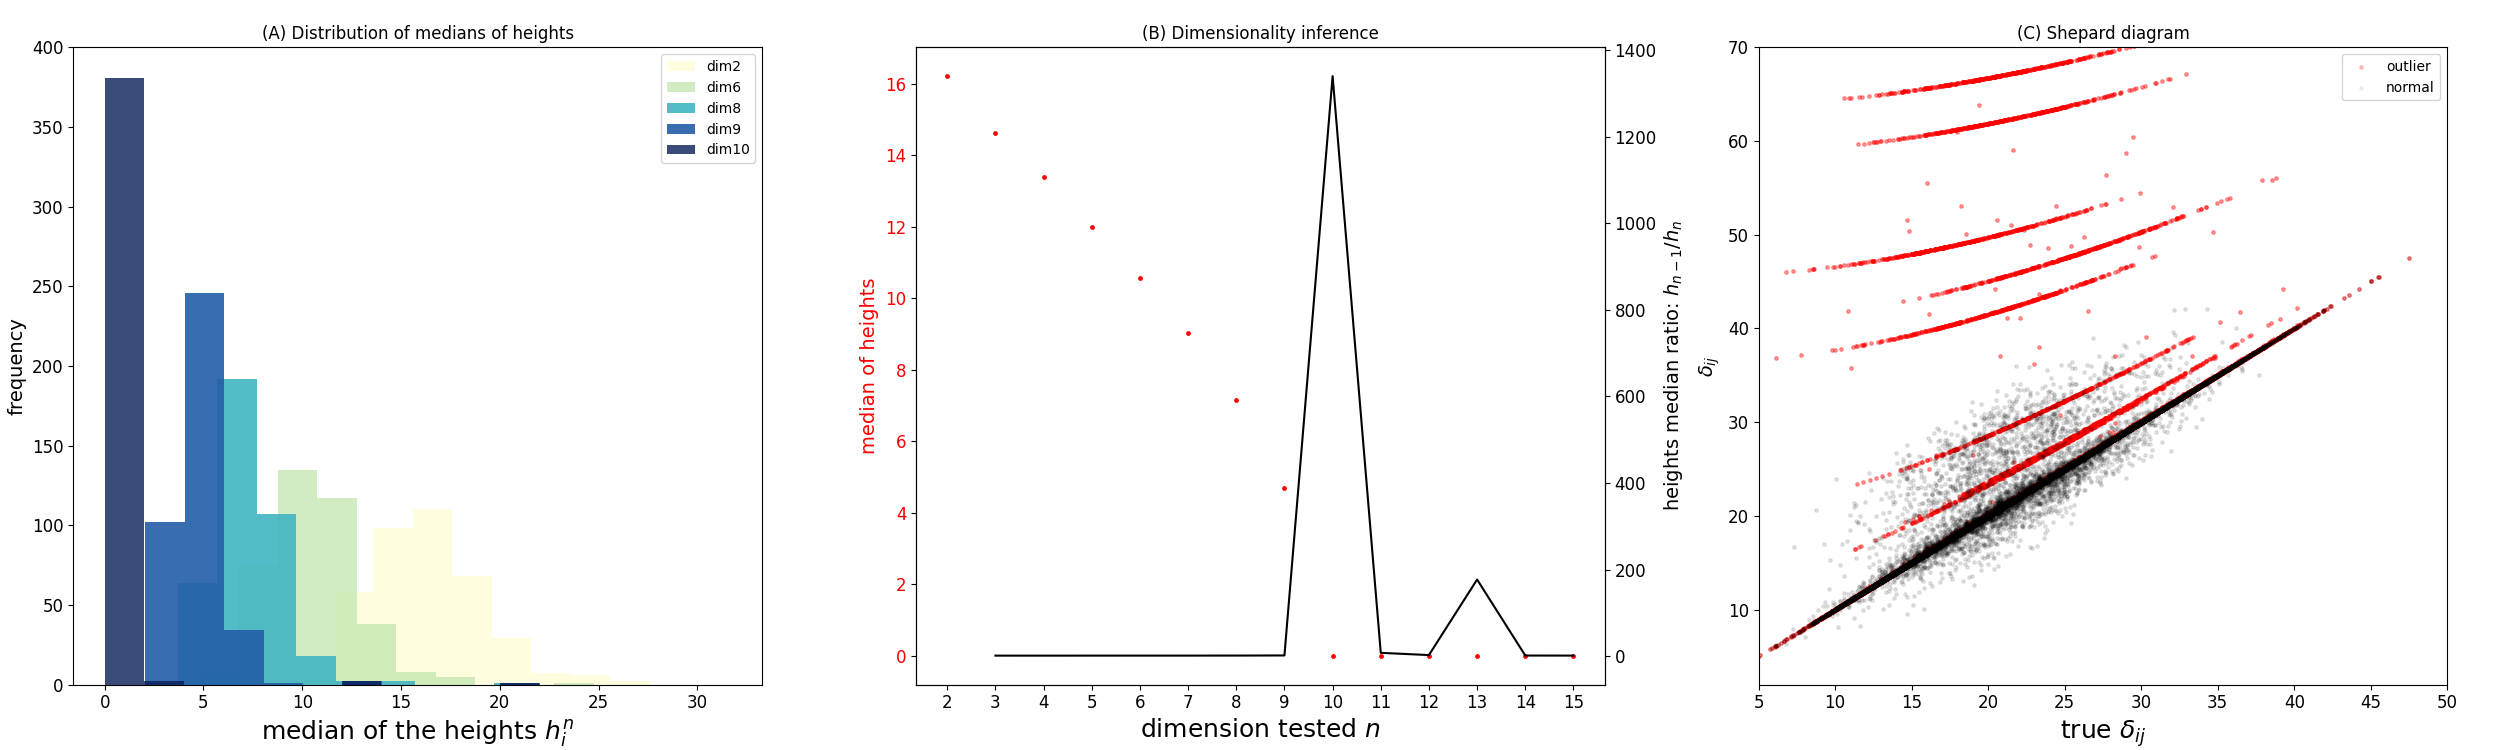
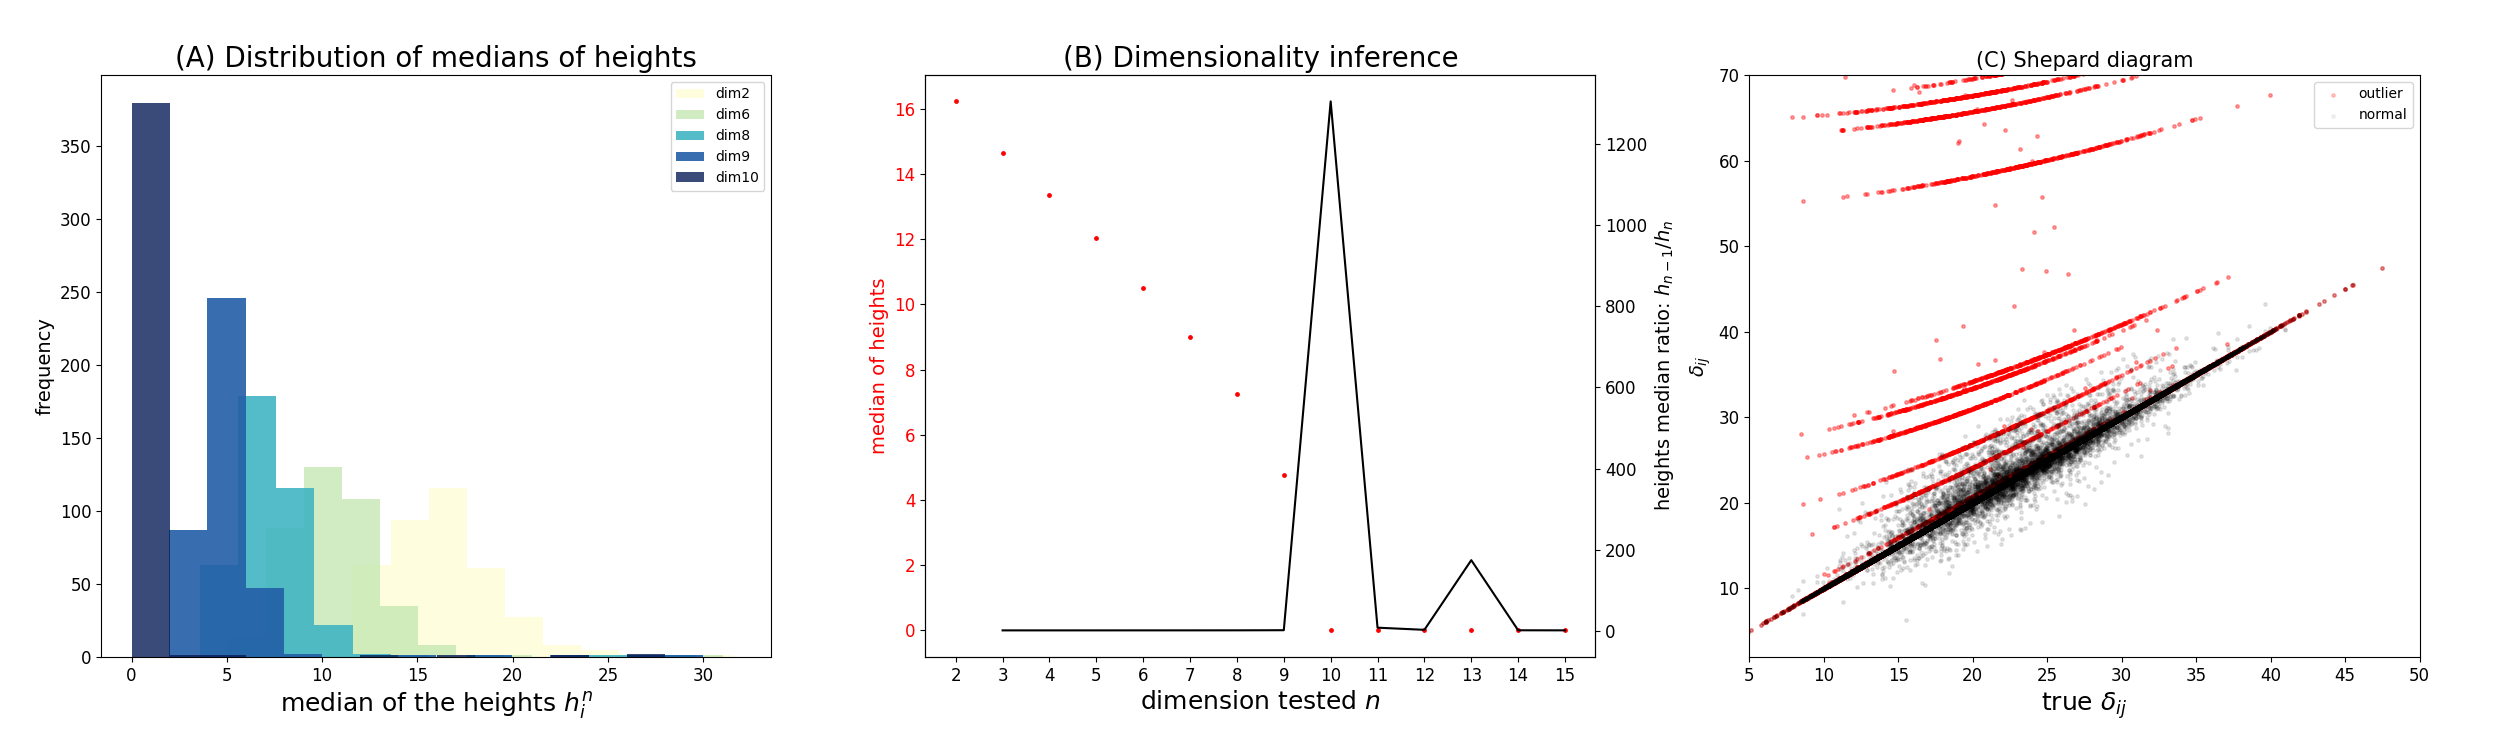
updated figures

diff --git a/exp_synthetic/test_synthetic_datasets.py b/exp_synthetic/test_synthetic_datasets.py
@@ -376,7 +376,7 @@ if not os.path.exists(dim10_fig_path):
     print("subspace dimension is:", subspace_dim)
 
     fig, (ax1, ax2, ax3) = plt.subplots(1, 3, figsize=(10*2.5,3*2.5))
-    fig.tight_layout(pad=3, w_pad=8, h_pad=1.0)
+    fig.tight_layout(pad=5, w_pad=8, h_pad=1.0)
 
     # In[20]:
 
@@ -412,7 +412,7 @@ if not os.path.exists(dim10_fig_path):
     ax1.tick_params(axis='y', labelsize=12)
     ax1.set_ylabel("frequency", fontsize=14)
     ax1.set_xlabel(r'median of the heights $h^{n}_i$', fontsize=18)
-    ax1.set_title("(A) Distribution of medians of heights")
+    ax1.set_title("(A) Distribution of medians of heights", fontsize=20)
     ax1.legend()
 
 
@@ -444,7 +444,7 @@ if not os.path.exists(dim10_fig_path):
     ax2.tick_params(axis ='y', labelcolor = color)
     ax2.tick_params(axis='x', labelsize=12)
     ax2.tick_params(axis='y', labelsize=12)
-    ax2.set_title("(B) Dimensionality inference")
+    ax2.set_title("(B) Dimensionality inference", fontsize=20)
     
     # Adding Twin Axes to plot using dataset_2
     sub_ax2 = ax2.twinx()
@@ -482,7 +482,7 @@ if not os.path.exists(dim10_fig_path):
     ax3.set_ylabel(r'$\delta_{ij}$', fontsize=14)
     ax3.set_xlim(5,50)
     ax3.set_ylim(2,70)
-    ax3.set_title("(C) Shepard diagram")
+    ax3.set_title("(C) Shepard diagram", fontsize=15)
     ax3.legend()
 
     plt.savefig(dim10_fig_path)
